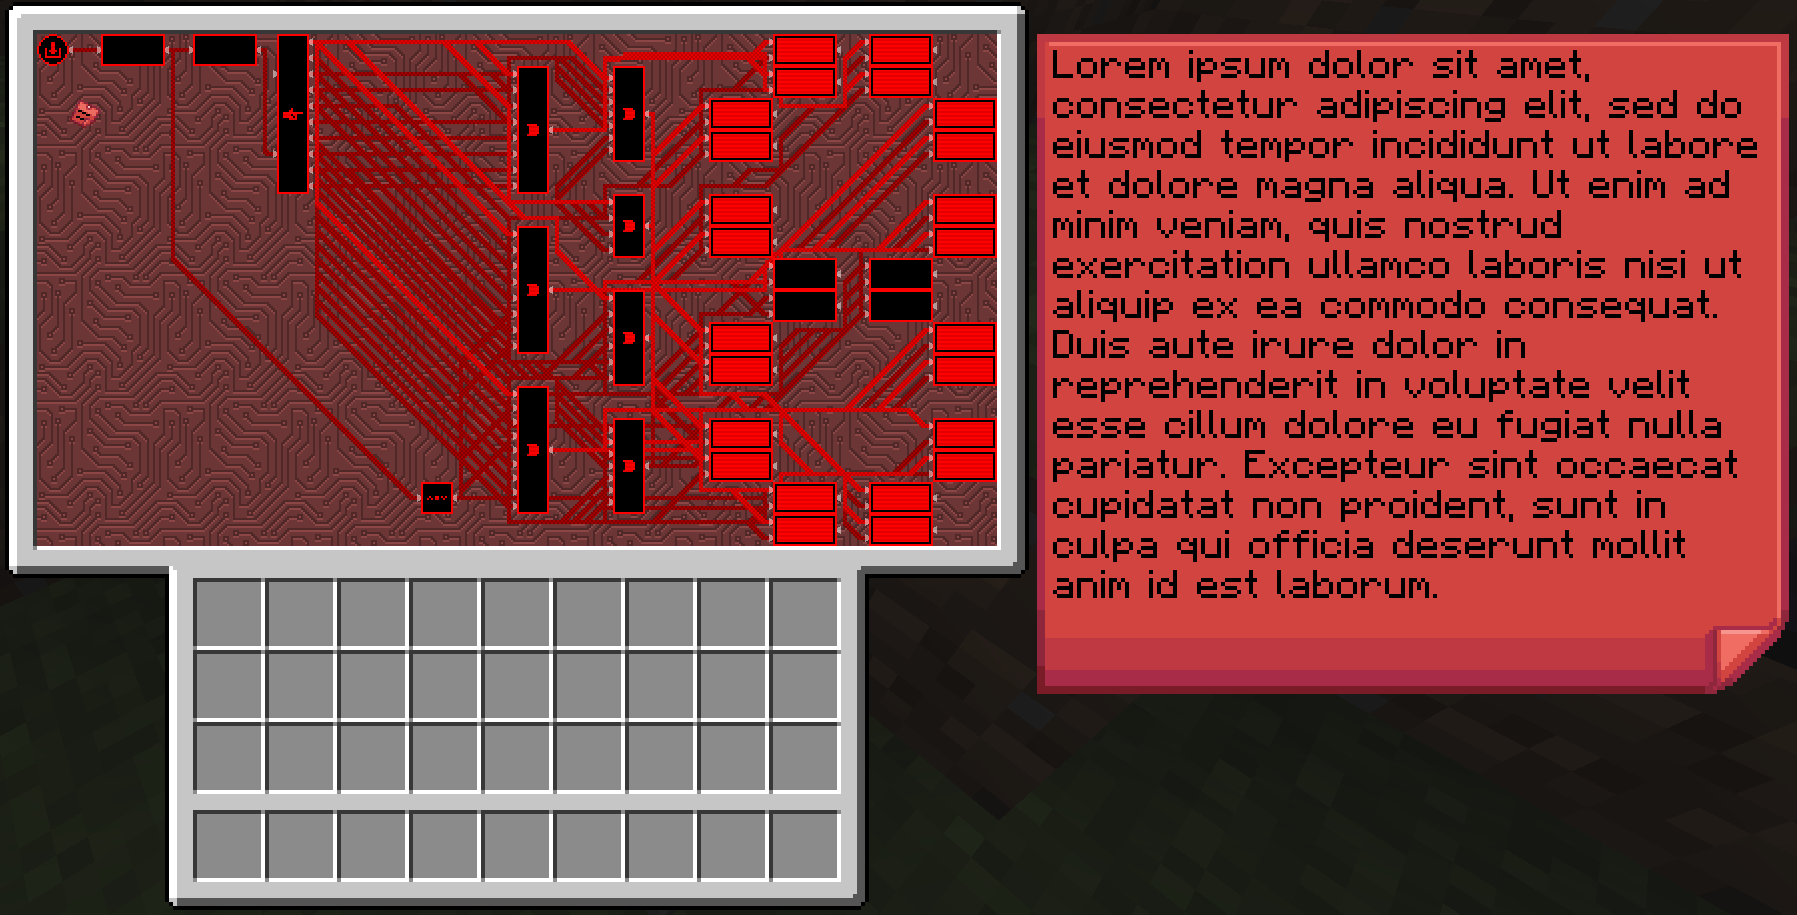
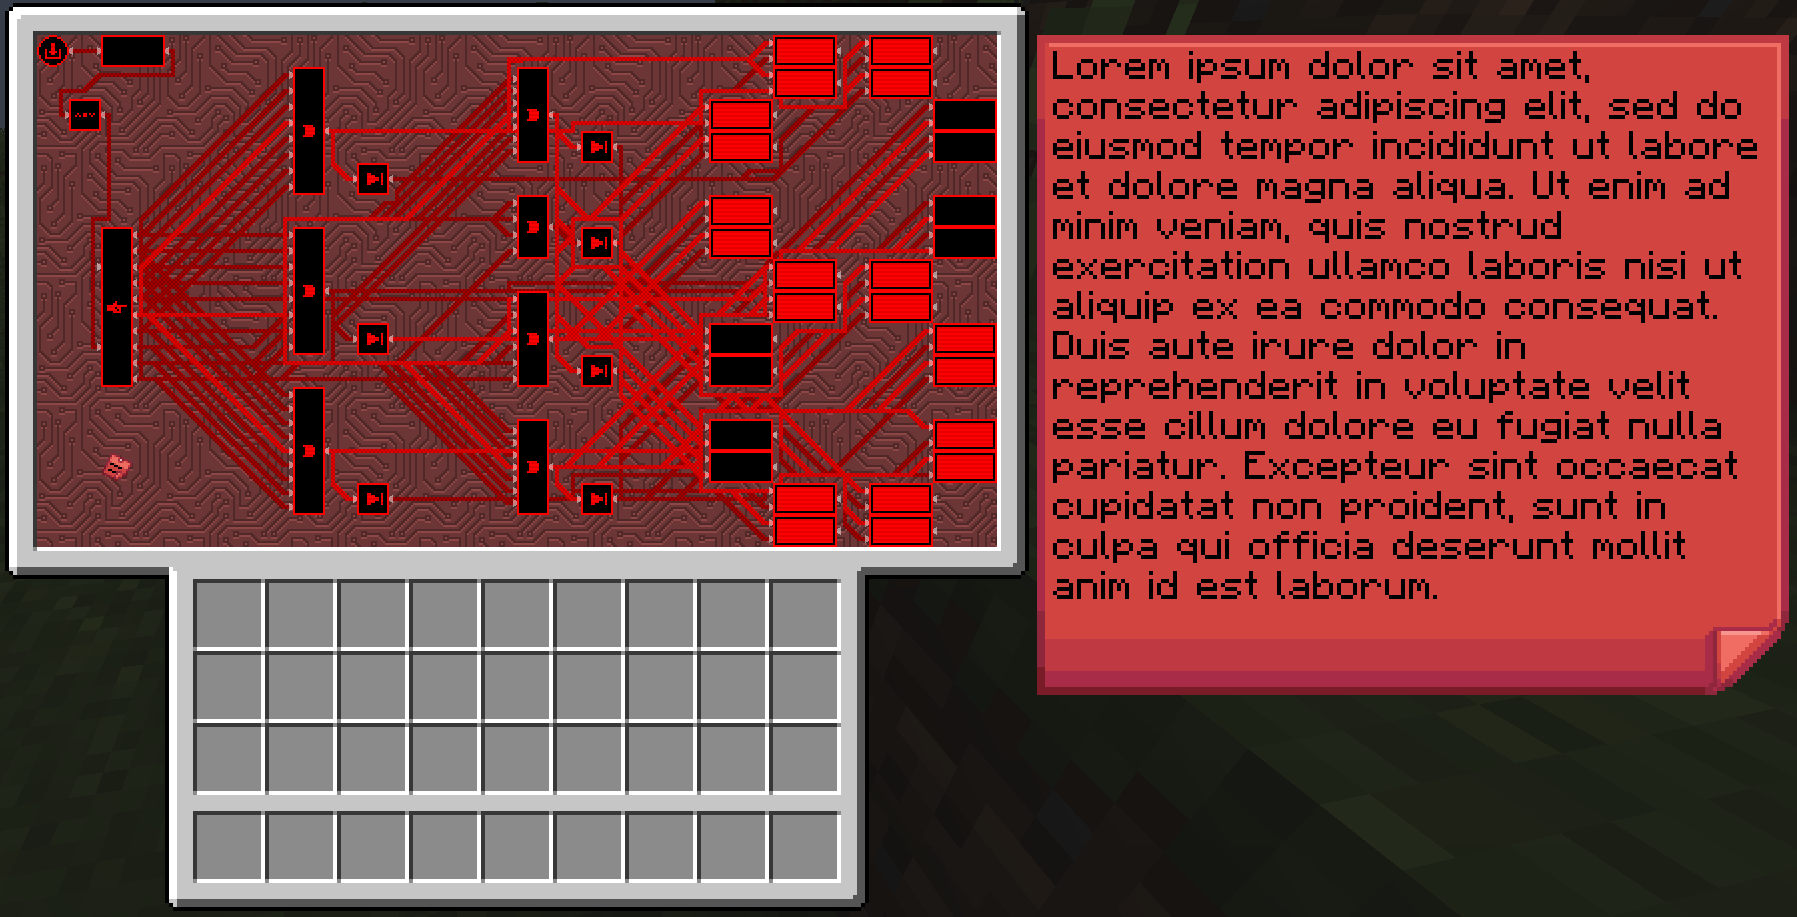
Use new 7seg display design

diff --git a/README.md b/README.md
@@ -19,8 +19,8 @@ to create connections between logic components in the GUI. All logic components 
 their functions are.
 
 Below is a demonstration of how complex logic can get inside of the Microchip GUI. This is a seven segment display 
-created by bigfoott, a friend of mine. While this microchip does not have a designated output, you can place any
-number of inputs and outputs as you may need.
+created by bigfoott. While this microchip does not have a designated output, you can place any number of inputs and 
+outputs as you may need.
 
 <!-- Direct image link: ![7 segment display demonstration using the microchip](https://raw.githubusercontent.com/Swedz/Little-Big-Redstone/refs/heads/1.21.1/src/main/resources/assets/little_big_redstone/readme/microchip.gif) -->
 ![7 segment display demonstration using the microchip](src/main/resources/assets/little_big_redstone/readme/microchip.gif)